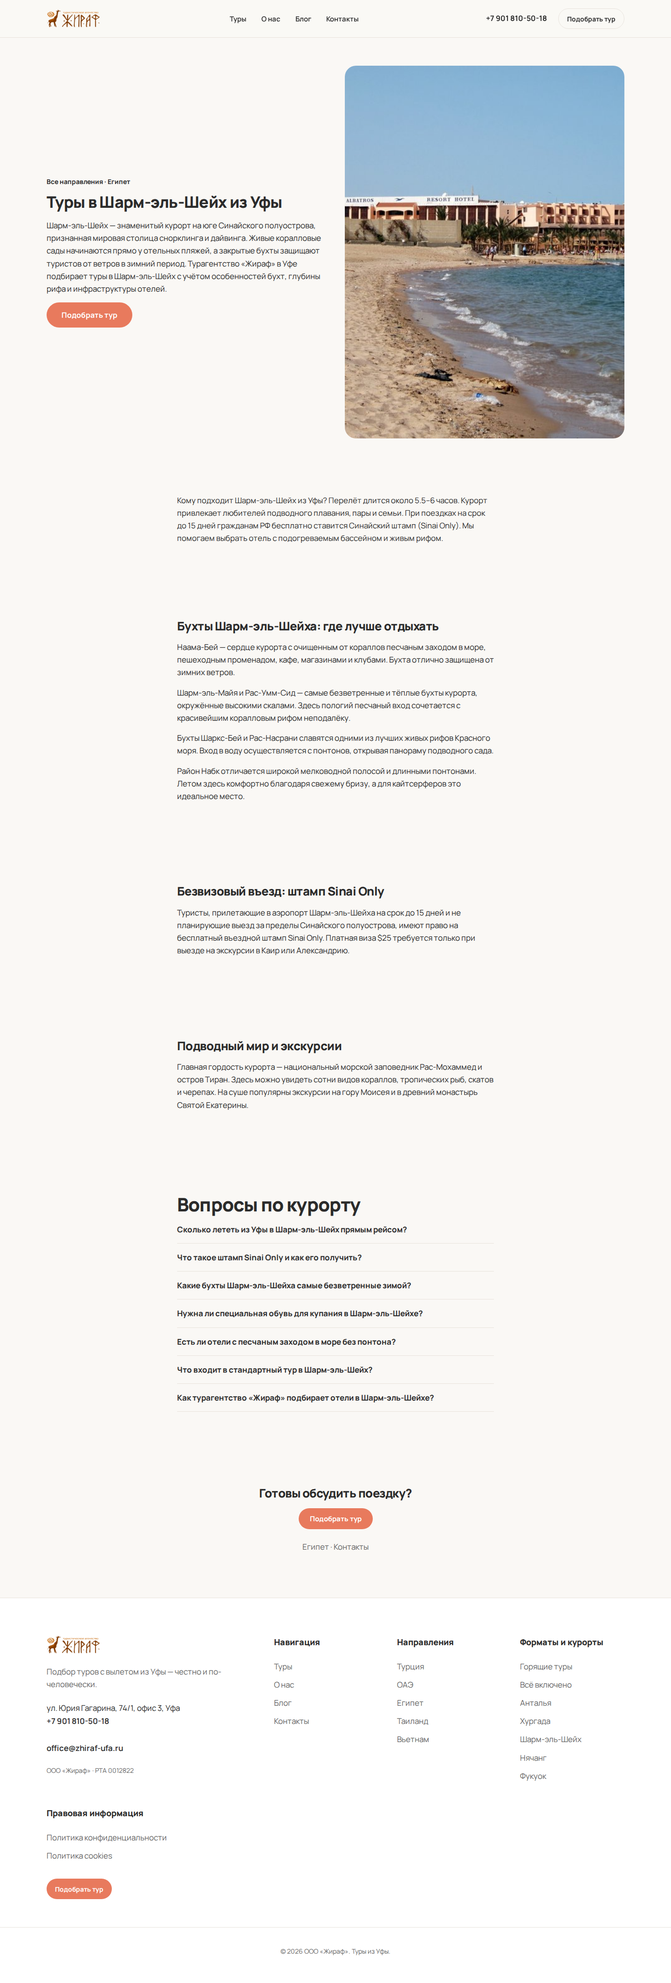
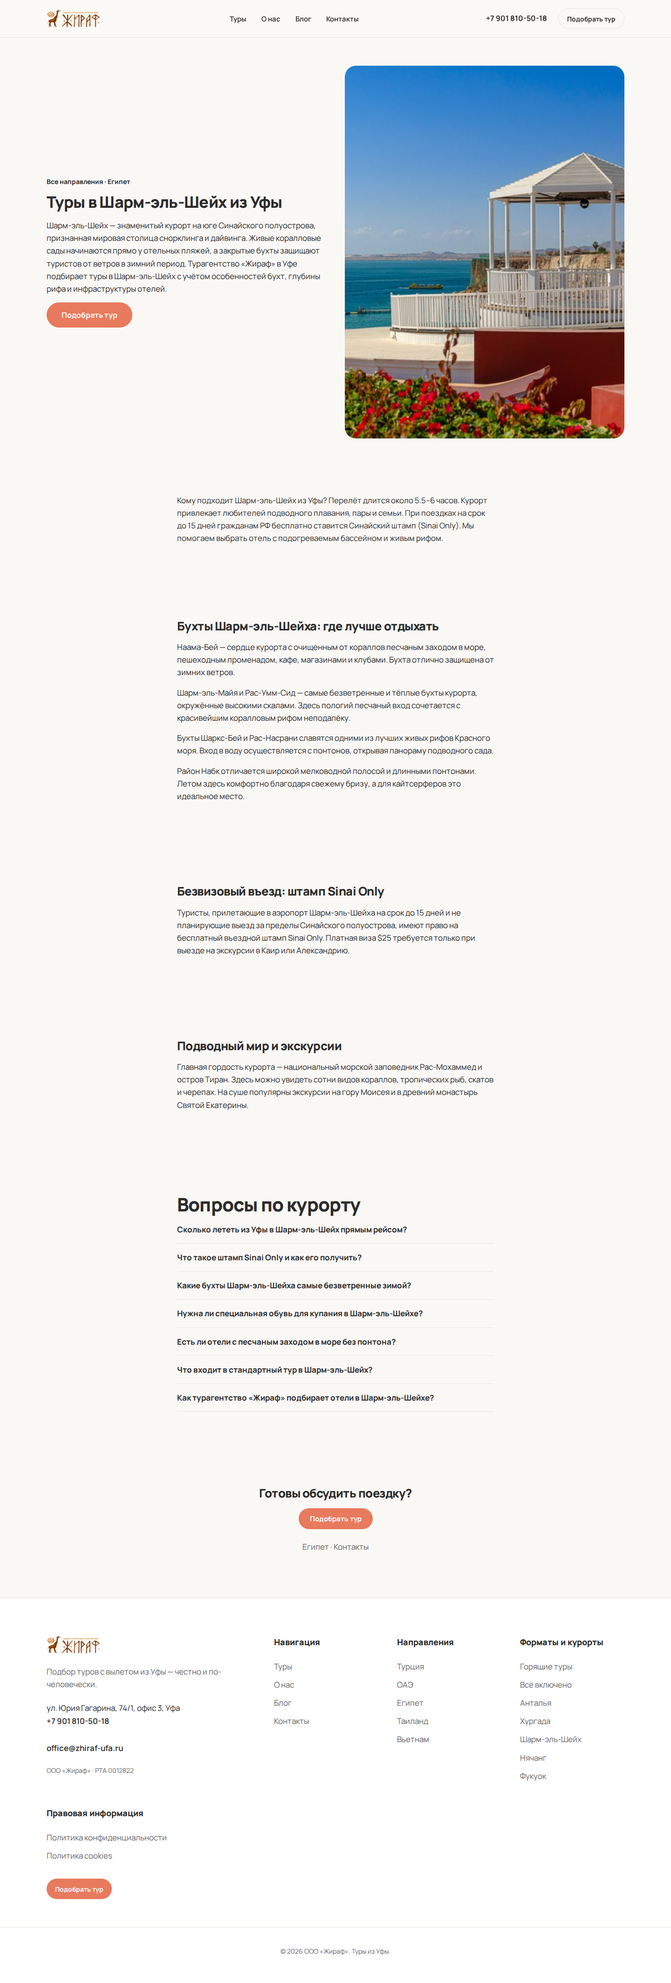
fix(zhiraf-ufa): replace Istanbul tour card photo with authentic cityscape & refresh paint evidence

Changed region(s): [[0.5, 0.0312, 0.9375, 0.2188]]

diff --git a/deliverables/zhiraf-ufa/preview/tour-turciya.html b/deliverables/zhiraf-ufa/preview/tour-turciya.html
@@ -50,7 +50,7 @@
       <div class="tour-price-grid tour-price-grid--dest">
         <article class="tour-card reveal" data-dest="turciya">
     <div class="tour-card__media">
-      <img src="../wp-theme/zhiraf-ufa/assets/images/dest-turkey.jpg" alt="Стамбул (Старый город-Султанахмет) — Grand Ant Hotel Istanbul" loading="lazy" class="tour-card__img" />
+      <img src="../wp-theme/zhiraf-ufa/assets/images/hero-turkey.jpg" alt="Стамбул (Старый город-Султанахмет) — Grand Ant Hotel Istanbul" loading="lazy" class="tour-card__img" />
       <div class="tour-card__badges">
         <span class="tour-card__badge tour-card__badge--country">Турция</span>
         <span class="tour-card__badge tour-card__badge--stars" aria-label="Категория отеля: 3*"><span class="star-icon" aria-hidden="true">★</span>3*</span>
@@ -112,7 +112,7 @@
   </article>
 <article class="tour-card reveal" data-dest="turciya">
     <div class="tour-card__media">
-      <img src="../wp-theme/zhiraf-ufa/assets/images/dest-turkey.jpg" alt="Стамбул (Старый город-Султанахмет) — Kaya Hotel Istanbul" loading="lazy" class="tour-card__img" />
+      <img src="../wp-theme/zhiraf-ufa/assets/images/hero-turkey.jpg" alt="Стамбул (Старый город-Султанахмет) — Kaya Hotel Istanbul" loading="lazy" class="tour-card__img" />
       <div class="tour-card__badges">
         <span class="tour-card__badge tour-card__badge--country">Турция</span>
         <span class="tour-card__badge tour-card__badge--stars" aria-label="Категория отеля: 3*"><span class="star-icon" aria-hidden="true">★</span>3*</span>
@@ -174,7 +174,7 @@
   </article>
 <article class="tour-card reveal" data-dest="turciya">
     <div class="tour-card__media">
-      <img src="../wp-theme/zhiraf-ufa/assets/images/dest-turkey.jpg" alt="Стамбул (Старый город-Султанахмет) — Grand Washington Hotel Istanbul" loading="lazy" class="tour-card__img" />
+      <img src="../wp-theme/zhiraf-ufa/assets/images/hero-turkey.jpg" alt="Стамбул (Старый город-Султанахмет) — Grand Washington Hotel Istanbul" loading="lazy" class="tour-card__img" />
       <div class="tour-card__badges">
         <span class="tour-card__badge tour-card__badge--country">Турция</span>
         <span class="tour-card__badge tour-card__badge--stars" aria-label="Категория отеля: 4*"><span class="star-icon" aria-hidden="true">★</span>4*</span>
@@ -236,7 +236,7 @@
   </article>
 <article class="tour-card reveal" data-dest="turciya">
     <div class="tour-card__media">
-      <img src="../wp-theme/zhiraf-ufa/assets/images/dest-turkey.jpg" alt="Стамбул (Старый город-Султанахмет) — Antis Hotel Istanbul Sultanahmet" loading="lazy" class="tour-card__img" />
+      <img src="../wp-theme/zhiraf-ufa/assets/images/hero-turkey.jpg" alt="Стамбул (Старый город-Султанахмет) — Antis Hotel Istanbul Sultanahmet" loading="lazy" class="tour-card__img" />
       <div class="tour-card__badges">
         <span class="tour-card__badge tour-card__badge--country">Турция</span>
         <span class="tour-card__badge tour-card__badge--stars" aria-label="Категория отеля: 4*"><span class="star-icon" aria-hidden="true">★</span>4*</span>
@@ -298,7 +298,7 @@
   </article>
 <article class="tour-card reveal" data-dest="turciya">
     <div class="tour-card__media">
-      <img src="../wp-theme/zhiraf-ufa/assets/images/dest-turkey.jpg" alt="Стамбул (Фатих) — Darkhill Hotel Istanbul Laleli" loading="lazy" class="tour-card__img" />
+      <img src="../wp-theme/zhiraf-ufa/assets/images/hero-turkey.jpg" alt="Стамбул (Фатих) — Darkhill Hotel Istanbul Laleli" loading="lazy" class="tour-card__img" />
       <div class="tour-card__badges">
         <span class="tour-card__badge tour-card__badge--country">Турция</span>
         <span class="tour-card__badge tour-card__badge--stars" aria-label="Категория отеля: 4*"><span class="star-icon" aria-hidden="true">★</span>4*</span>

diff --git a/deliverables/zhiraf-ufa/preview/home.html b/deliverables/zhiraf-ufa/preview/home.html
@@ -166,7 +166,7 @@
       <div class="tour-price-grid tour-price-grid--home">
         <article class="tour-card reveal" data-dest="turciya">
           <div class="tour-card__media">
-            <img class="tour-card__img" src="../wp-theme/zhiraf-ufa/assets/images/dest-turkey.jpg" alt="Стамбул (Старый город-Султанахмет) — Grand Ant Hotel Istanbul" loading="lazy" />
+            <img class="tour-card__img" src="../wp-theme/zhiraf-ufa/assets/images/hero-turkey.jpg" alt="Стамбул (Старый город-Султанахмет) — Grand Ant Hotel Istanbul" loading="lazy" />
             <div class="tour-card__badges">
               <span class="tour-card__badge tour-card__badge--country">Турция</span>
               <span class="tour-card__badge tour-card__badge--stars" aria-label="Категория отеля: 3*"><span class="star-icon" aria-hidden="true">★</span>3*</span>

diff --git a/deliverables/zhiraf-ufa/preview/tour-egipet-sharm-el-sheyh.html b/deliverables/zhiraf-ufa/preview/tour-egipet-sharm-el-sheyh.html
@@ -28,7 +28,7 @@
         <button type="button" class="btn btn--primary btn--lg">Подобрать тур</button>
       </div>
       <div class="dest-landing-hero__visual">
-        <img src="../wp-theme/zhiraf-ufa/assets/images/dest-egypt.jpg" alt="Шарм-эль-Шейх — коралловые рифы Синайского полуострова и отдых на Красном море" loading="lazy" class="dest-landing-hero__img" />
+        <img src="../wp-theme/zhiraf-ufa/assets/images/hero-egypt.jpg" alt="Шарм-эль-Шейх — коралловые рифы Синайского полуострова и отдых на Красном море" loading="lazy" class="dest-landing-hero__img" />
       </div>
     </div>
   </section>

diff --git a/deliverables/zhiraf-ufa/preview/tour-vietnam-fukuok.html b/deliverables/zhiraf-ufa/preview/tour-vietnam-fukuok.html
@@ -28,7 +28,7 @@
         <button type="button" class="btn btn--primary btn--lg">Подобрать тур</button>
       </div>
       <div class="dest-landing-hero__visual">
-        <img src="../wp-theme/zhiraf-ufa/assets/images/dest-vietnam.jpg" alt="Фукуок — тропические пляжи острова в Сиамском заливе" loading="lazy" class="dest-landing-hero__img" />
+        <img src="../wp-theme/zhiraf-ufa/assets/images/hero-vietnam.jpg" alt="Фукуок — тропические пляжи острова в Сиамском заливе" loading="lazy" class="dest-landing-hero__img" />
       </div>
     </div>
   </section>

diff --git a/deliverables/zhiraf-ufa/wp-theme/zhiraf-ufa/inc/resort-landings.php b/deliverables/zhiraf-ufa/wp-theme/zhiraf-ufa/inc/resort-landings.php
@@ -181,7 +181,7 @@ function zhiraf_ufa_resort_landing_data() {
 			'h1'            => __( 'Туры в Шарм-эль-Шейх из Уфы', 'zhiraf-ufa' ),
 			'title'         => __( 'Шарм-эль-Шейх из Уфы — туры на море «всё включено» | Жираф', 'zhiraf-ufa' ),
 			'description'   => __( 'Подбор туров в Шарм-эль-Шейх с вылетом из Уфы: коралловые рифы заповедника Рас-Мохаммед, безветренные бухты Наама-Бей и Шарм-эль-Майя, отели All Inclusive.', 'zhiraf-ufa' ),
-			'image'         => 'dest-egypt.jpg',
+			'image'         => 'hero-egypt.jpg',
 			'image_alt'     => __( 'Шарм-эль-Шейх — коралловые рифы Синайского полуострова и отдых на Красном море', 'zhiraf-ufa' ),
 			'hero_lead'      => __( 'Туры в Шарм-эль-Шейх с прямым вылетом из Уфы: фантастический подводный мир Красного моря, отели в безветренных бухтах для зимнего отдыха и система «всё включено».', 'zhiraf-ufa' ),
 			'hero_lead_extended' => __( 'Шарм-эль-Шейх — знаменитый курорт на юге Синайского полуострова, признанная мировая столица снорклинга и дайвинга. Живые коралловые сады начинаются прямо у отельных пляжей, а закрытые бухты защищают туристов от ветров в зимний период. Турагентство «Жираф» в Уфе подбирает туры в Шарм-эль-Шейх с учётом особенностей бухт, глубины рифа и инфраструктуры отелей.', 'zhiraf-ufa' ),
@@ -320,7 +320,7 @@ function zhiraf_ufa_resort_landing_data() {
 			'h1'            => __( 'Туры на Фукуок из Уфы', 'zhiraf-ufa' ),
 			'title'         => __( 'Фукуок из Уфы — туры на тропический остров Вьетнама | Жираф', 'zhiraf-ufa' ),
 			'description'   => __( 'Подбор туров на остров Фукуок с вылетом из Уфы: пляжи Лонг-Бич и Сао-Бич, отели у спокойного лазурного моря, сафари-парк Vinpearl Safari, канатная дорога Хон Тхом.', 'zhiraf-ufa' ),
-			'image'         => 'dest-vietnam.jpg',
+			'image'         => 'hero-vietnam.jpg',
 			'image_alt'     => __( 'Фукуок — тропические пляжи острова в Сиамском заливе', 'zhiraf-ufa' ),
 			'hero_lead'      => __( 'Туры на остров Фукуок с вылетом из Уфы: уединённый тропический рай в Сиамском заливе, чистейшие лазурные пляжи без волн, роскошные закаты и первоклассные резорты.', 'zhiraf-ufa' ),
 			'hero_lead_extended' => __( 'Фукуок — самый большой остров Вьетнама, расположенный в тёплых водах Сиамского залива. Это идеальное место для тех, кто ищет гармонию с природой, спокойное море цвета бирюзы, мягкий белый песок и современные отели премиального уровня. Турагентство «Жираф» в Уфе подбирает туры на Фукуок для пар, семей с детьми и ценителей экзотического релакса, обеспечивая надёжный трансфер и высокий уровень сервиса.', 'zhiraf-ufa' ),

diff --git a/teya-memory/wp/theme/zhiraf-ufa/inc/resort-landings.php b/teya-memory/wp/theme/zhiraf-ufa/inc/resort-landings.php
@@ -181,7 +181,7 @@ function zhiraf_ufa_resort_landing_data() {
 			'h1'            => __( 'Туры в Шарм-эль-Шейх из Уфы', 'zhiraf-ufa' ),
 			'title'         => __( 'Шарм-эль-Шейх из Уфы — туры на море «всё включено» | Жираф', 'zhiraf-ufa' ),
 			'description'   => __( 'Подбор туров в Шарм-эль-Шейх с вылетом из Уфы: коралловые рифы заповедника Рас-Мохаммед, безветренные бухты Наама-Бей и Шарм-эль-Майя, отели All Inclusive.', 'zhiraf-ufa' ),
-			'image'         => 'dest-egypt.jpg',
+			'image'         => 'hero-egypt.jpg',
 			'image_alt'     => __( 'Шарм-эль-Шейх — коралловые рифы Синайского полуострова и отдых на Красном море', 'zhiraf-ufa' ),
 			'hero_lead'      => __( 'Туры в Шарм-эль-Шейх с прямым вылетом из Уфы: фантастический подводный мир Красного моря, отели в безветренных бухтах для зимнего отдыха и система «всё включено».', 'zhiraf-ufa' ),
 			'hero_lead_extended' => __( 'Шарм-эль-Шейх — знаменитый курорт на юге Синайского полуострова, признанная мировая столица снорклинга и дайвинга. Живые коралловые сады начинаются прямо у отельных пляжей, а закрытые бухты защищают туристов от ветров в зимний период. Турагентство «Жираф» в Уфе подбирает туры в Шарм-эль-Шейх с учётом особенностей бухт, глубины рифа и инфраструктуры отелей.', 'zhiraf-ufa' ),
@@ -320,7 +320,7 @@ function zhiraf_ufa_resort_landing_data() {
 			'h1'            => __( 'Туры на Фукуок из Уфы', 'zhiraf-ufa' ),
 			'title'         => __( 'Фукуок из Уфы — туры на тропический остров Вьетнама | Жираф', 'zhiraf-ufa' ),
 			'description'   => __( 'Подбор туров на остров Фукуок с вылетом из Уфы: пляжи Лонг-Бич и Сао-Бич, отели у спокойного лазурного моря, сафари-парк Vinpearl Safari, канатная дорога Хон Тхом.', 'zhiraf-ufa' ),
-			'image'         => 'dest-vietnam.jpg',
+			'image'         => 'hero-vietnam.jpg',
 			'image_alt'     => __( 'Фукуок — тропические пляжи острова в Сиамском заливе', 'zhiraf-ufa' ),
 			'hero_lead'      => __( 'Туры на остров Фукуок с вылетом из Уфы: уединённый тропический рай в Сиамском заливе, чистейшие лазурные пляжи без волн, роскошные закаты и первоклассные резорты.', 'zhiraf-ufa' ),
 			'hero_lead_extended' => __( 'Фукуок — самый большой остров Вьетнама, расположенный в тёплых водах Сиамского залива. Это идеальное место для тех, кто ищет гармонию с природой, спокойное море цвета бирюзы, мягкий белый песок и современные отели премиального уровня. Турагентство «Жираф» в Уфе подбирает туры на Фукуок для пар, семей с детьми и ценителей экзотического релакса, обеспечивая надёжный трансфер и высокий уровень сервиса.', 'zhiraf-ufa' ),

diff --git a/deliverables/zhiraf-ufa/wp-theme/zhiraf-ufa/inc/tours.php b/deliverables/zhiraf-ufa/wp-theme/zhiraf-ufa/inc/tours.php
@@ -34,20 +34,29 @@ function zhiraf_ufa_tour_image( $tour ) {
 	}
 
 	if ( '' !== $resort ) {
-		if ( false !== mb_strpos( $resort, 'хургад', 0, 'UTF-8' ) || false !== mb_strpos( $resort, 'шарм', 0, 'UTF-8' ) ) {
+		if ( false !== mb_strpos( $resort, 'стамбул', 0, 'UTF-8' ) ) {
+			return 'hero-turkey.jpg';
+		}
+		if ( false !== mb_strpos( $resort, 'анталь', 0, 'UTF-8' ) || false !== mb_strpos( $resort, 'кемер', 0, 'UTF-8' ) || false !== mb_strpos( $resort, 'алань', 0, 'UTF-8' ) || false !== mb_strpos( $resort, 'сиде', 0, 'UTF-8' ) || false !== mb_strpos( $resort, 'белек', 0, 'UTF-8' ) ) {
+			return 'dest-turkey.jpg';
+		}
+		if ( false !== mb_strpos( $resort, 'шарм', 0, 'UTF-8' ) ) {
+			return 'hero-egypt.jpg';
+		}
+		if ( false !== mb_strpos( $resort, 'хургад', 0, 'UTF-8' ) ) {
 			return 'dest-egypt.jpg';
 		}
-		if ( false !== mb_strpos( $resort, 'нячанг', 0, 'UTF-8' ) || false !== mb_strpos( $resort, 'фукуок', 0, 'UTF-8' ) ) {
+		if ( false !== mb_strpos( $resort, 'фукуок', 0, 'UTF-8' ) ) {
+			return 'hero-vietnam.jpg';
+		}
+		if ( false !== mb_strpos( $resort, 'нячанг', 0, 'UTF-8' ) ) {
 			return 'dest-vietnam.jpg';
 		}
 		if ( false !== mb_strpos( $resort, 'пхукет', 0, 'UTF-8' ) || false !== mb_strpos( $resort, 'паттай', 0, 'UTF-8' ) ) {
 			return 'dest-thailand.jpg';
 		}
-		if ( false !== mb_strpos( $resort, 'дубай', 0, 'UTF-8' ) || false !== mb_strpos( $resort, 'шардж', 0, 'UTF-8' ) || false !== mb_strpos( $resort, 'аджман', 0, 'UTF-8' ) || false !== mb_strpos( $resort, 'умм', 0, 'UTF-8' ) ) {
+		if ( false !== mb_strpos( $resort, 'дубай', 0, 'UTF-8' ) || false !== mb_strpos( $resort, 'шардж', 0, 'UTF-8' ) || false !== mb_strpos( $resort, 'аджман', 0, 'UTF-8' ) || false !== mb_strpos( $resort, 'умм', 0, 'UTF-8' ) || false !== mb_strpos( $resort, 'рас', 0, 'UTF-8' ) || false !== mb_strpos( $resort, 'фуджейр', 0, 'UTF-8' ) ) {
 			return 'dest-uae.jpg';
-		}
-		if ( false !== mb_strpos( $resort, 'анталь', 0, 'UTF-8' ) || false !== mb_strpos( $resort, 'стамбул', 0, 'UTF-8' ) ) {
-			return 'dest-turkey.jpg';
 		}
 	}
 

diff --git a/teya-memory/wp/theme/zhiraf-ufa/inc/tours.php b/teya-memory/wp/theme/zhiraf-ufa/inc/tours.php
@@ -34,20 +34,29 @@ function zhiraf_ufa_tour_image( $tour ) {
 	}
 
 	if ( '' !== $resort ) {
-		if ( false !== mb_strpos( $resort, 'хургад', 0, 'UTF-8' ) || false !== mb_strpos( $resort, 'шарм', 0, 'UTF-8' ) ) {
+		if ( false !== mb_strpos( $resort, 'стамбул', 0, 'UTF-8' ) ) {
+			return 'hero-turkey.jpg';
+		}
+		if ( false !== mb_strpos( $resort, 'анталь', 0, 'UTF-8' ) || false !== mb_strpos( $resort, 'кемер', 0, 'UTF-8' ) || false !== mb_strpos( $resort, 'алань', 0, 'UTF-8' ) || false !== mb_strpos( $resort, 'сиде', 0, 'UTF-8' ) || false !== mb_strpos( $resort, 'белек', 0, 'UTF-8' ) ) {
+			return 'dest-turkey.jpg';
+		}
+		if ( false !== mb_strpos( $resort, 'шарм', 0, 'UTF-8' ) ) {
+			return 'hero-egypt.jpg';
+		}
+		if ( false !== mb_strpos( $resort, 'хургад', 0, 'UTF-8' ) ) {
 			return 'dest-egypt.jpg';
 		}
-		if ( false !== mb_strpos( $resort, 'нячанг', 0, 'UTF-8' ) || false !== mb_strpos( $resort, 'фукуок', 0, 'UTF-8' ) ) {
+		if ( false !== mb_strpos( $resort, 'фукуок', 0, 'UTF-8' ) ) {
+			return 'hero-vietnam.jpg';
+		}
+		if ( false !== mb_strpos( $resort, 'нячанг', 0, 'UTF-8' ) ) {
 			return 'dest-vietnam.jpg';
 		}
 		if ( false !== mb_strpos( $resort, 'пхукет', 0, 'UTF-8' ) || false !== mb_strpos( $resort, 'паттай', 0, 'UTF-8' ) ) {
 			return 'dest-thailand.jpg';
 		}
-		if ( false !== mb_strpos( $resort, 'дубай', 0, 'UTF-8' ) || false !== mb_strpos( $resort, 'шардж', 0, 'UTF-8' ) || false !== mb_strpos( $resort, 'аджман', 0, 'UTF-8' ) || false !== mb_strpos( $resort, 'умм', 0, 'UTF-8' ) ) {
+		if ( false !== mb_strpos( $resort, 'дубай', 0, 'UTF-8' ) || false !== mb_strpos( $resort, 'шардж', 0, 'UTF-8' ) || false !== mb_strpos( $resort, 'аджман', 0, 'UTF-8' ) || false !== mb_strpos( $resort, 'умм', 0, 'UTF-8' ) || false !== mb_strpos( $resort, 'рас', 0, 'UTF-8' ) || false !== mb_strpos( $resort, 'фуджейр', 0, 'UTF-8' ) ) {
 			return 'dest-uae.jpg';
-		}
-		if ( false !== mb_strpos( $resort, 'анталь', 0, 'UTF-8' ) || false !== mb_strpos( $resort, 'стамбул', 0, 'UTF-8' ) ) {
-			return 'dest-turkey.jpg';
 		}
 	}
 

diff --git a/teya-memory/wp/paint-qa/paint-qa-report.md b/teya-memory/wp/paint-qa/paint-qa-report.md
@@ -7,7 +7,7 @@
 | page_build_ref | `teya-memory/wp/page-build-report.md` |
 | theme_ref | `e83ce46`+ (`cursor/zhiraf-b2b-site-a2bf`) — resort-accurate tour card photos & honest single-operator subtitle |
 | url_map_ref | `teya-memory/semantic-core/zhiraf-ufa-2026/wordstat/url-map.md` |
-| checked_at | 2026-10-18 |
+| checked_at | 2026-10-19 |
 | agent | paint QA (`bc-7503b3bf-5143-5012-a0f3-993d4006de47`) |
 
 ## Wordstat routes (full scroll → fullpage)

diff --git a/deliverables/zhiraf-ufa/pipeline-log.md b/deliverables/zhiraf-ufa/pipeline-log.md
@@ -43,6 +43,7 @@
 | release-gate-auditor (§18 release gate verification) | `bc-0d13e97b-f467-5768-b693-e95d454b93df` | да |
 | pipeline-log-compiler (§18 log compilation) | `bc-94c818d5-a1a2-51dc-ae0e-c3e6ebacfa4c` | да |
 | release-gate-auditor (§18 edits release gate PASS) | `bc-4ba1d94a-9558-5d3e-b429-aa4fc3e90865` | да |
+| wp-theme-builder (§18 resort photo fix & Paint QA) | `bc-20f11296-03c6-54e8-b357-bc78c3f01028` | да |
 
 ---
 
